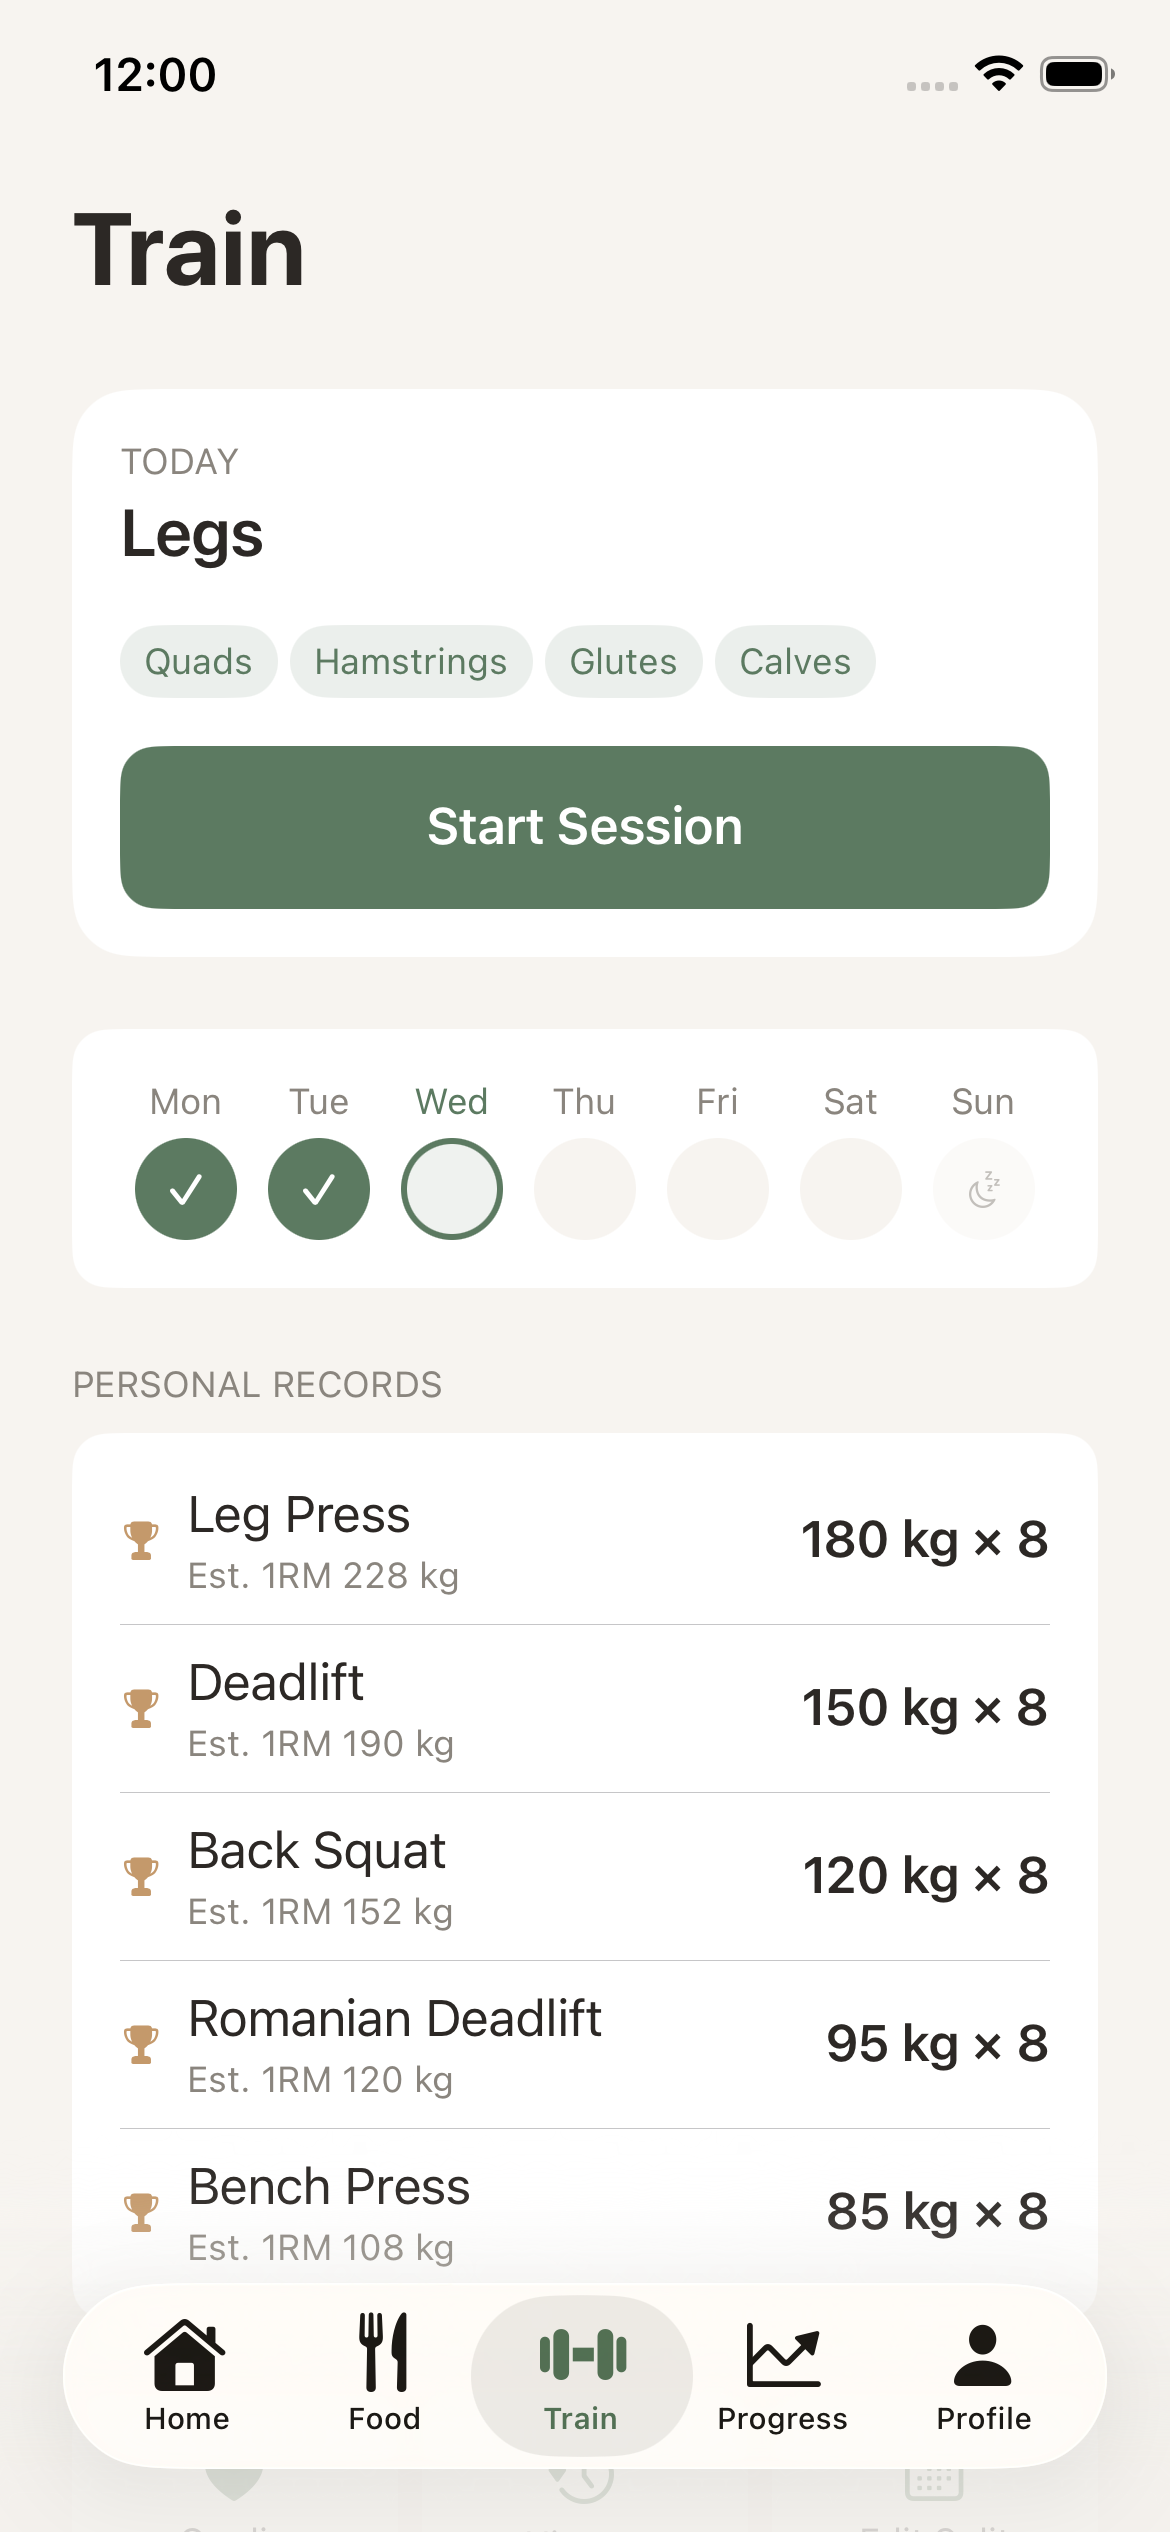
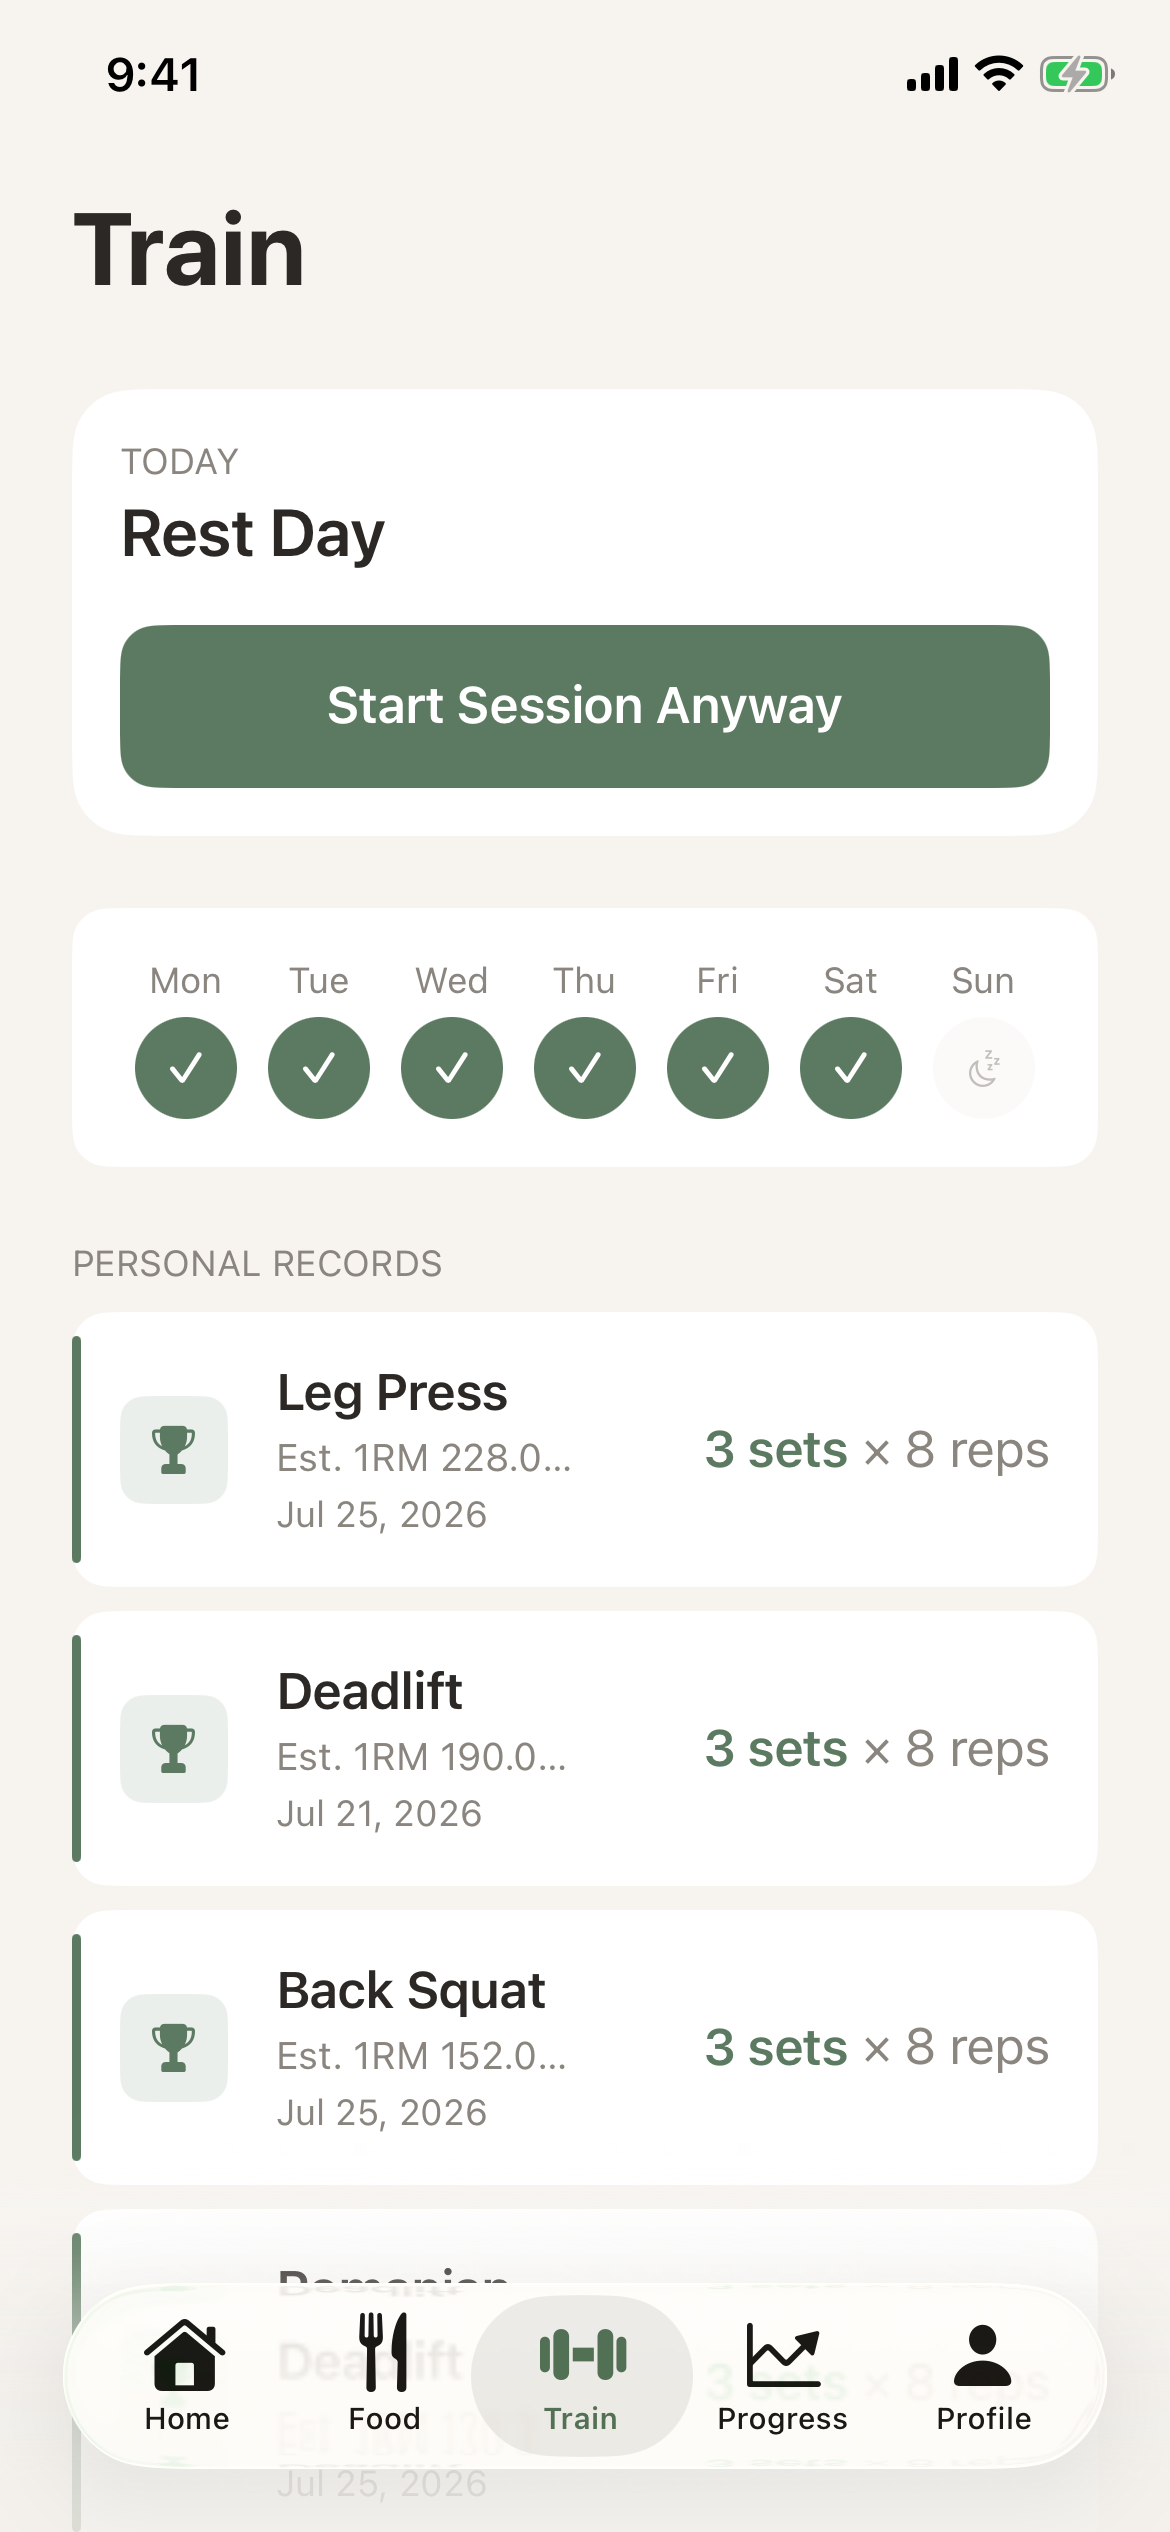
docs: update README with improvements and refresh App Store screenshots
- README: Improvements section listing all 10 post-launch improvements,
  Tech Stack section with the full 17-model SwiftData schema, and
  refreshed Workout/Progress feature lists (no longer "in development")
- DemoSeeder: seed three supplements with three weeks of logs so the
  Home checklist and consistency streak show real data in screenshots
- Fresh 6.9" (iPhone 17 Pro Max) and 6.1" (iPhone 16e) screenshot sets:
  Home, Food diary, Train PRs, Progress Strength analytics, and a dark
  mode Home scrolled to the supplement checklist and streaks

diff --git a/Vora/Utilities/DemoSeeder.swift b/Vora/Utilities/DemoSeeder.swift
@@ -55,8 +55,39 @@ enum DemoSeeder {
         seedFoodAndWater(into: context, today: today, calendar: cal)
         seedWorkouts(into: context, today: today, calendar: cal)
         seedFoodLibrary(into: context)
+        seedSupplements(into: context, today: today, calendar: cal)
 
         try? context.save()
+    }
+
+    /// Three supplements with three weeks of full logs; today the evening
+    /// one is still untaken so the Home checklist reads 2 of 3.
+    private static func seedSupplements(into context: ModelContext, today: Date, calendar: Calendar) {
+        let createdAt = calendar.date(byAdding: .day, value: -21, to: today)!
+        let supplements = [
+            Supplement(name: "Creatine", dose: "5g", timing: .morning,
+                       reminderEnabled: true, reminderMinutes: 480, orderIndex: 0, createdAt: createdAt),
+            Supplement(name: "Vitamin D", dose: "2000IU", timing: .morning,
+                       orderIndex: 1, createdAt: createdAt),
+            Supplement(name: "Magnesium", dose: "400mg", timing: .evening,
+                       orderIndex: 2, createdAt: createdAt),
+        ]
+        supplements.forEach { context.insert($0) }
+
+        for dayOffset in 0...21 {
+            let day = calendar.date(byAdding: .day, value: -dayOffset, to: today)!
+            for supplement in supplements {
+                // Evening supplement not yet taken today.
+                if dayOffset == 0 && supplement.timing == .evening { continue }
+                context.insert(SupplementLog(
+                    supplementID: supplement.id,
+                    supplementName: supplement.name,
+                    dose: supplement.dose,
+                    date: day,
+                    takenAt: day.addingTimeInterval(supplement.timing == .evening ? 21 * 3600 : 8 * 3600)
+                ))
+            }
+        }
     }
 
     /// Custom foods, a saved meal, and a recipe so the food-search tabs

diff --git a/README.md b/README.md
@@ -24,15 +24,20 @@ Vora is a premium iOS fitness tracking app that brings nutrition, training, and 
 - Nutrient breakdown (fibre, sugar, sodium) and one-tap copy of the previous day
 - Day-by-day navigation with swipe or arrows
 
-### Workout *(in development)*
+### Workout
 - Session logging built around your training split (Upper/Lower, Push Pull Legs, Full Body, Custom)
 - Exercise and set tracking: weight, reps, RPE, completion
 - Session volume and duration tracking
+- Per-day exercise templates with previous-session weight auto-fill
+- Personal records with per-exercise history and progression charts
+- Cardio logging across 10 machine types with MET-based calorie estimates
 
-### Progress *(in development)*
-- Weight logging with trend visualization
-- Body fat percentage tracking
-- Progress insights across nutrition and training
+### Progress
+- Weight logging with trend visualization and goal projection
+- Body fat percentage and body measurement tracking
+- Strength and nutrition analytics with Swift Charts
+- Workout, food, and supplement streaks
+- Daily insight engine across nutrition, training, and supplements
 
 ### Profile
 - Guided onboarding: units, biological sex, height, weight, goal, activity level, training split
@@ -50,6 +55,29 @@ Vora is a premium iOS fitness tracking app that brings nutrition, training, and 
 | 3 | Workout Module | ✅ Complete |
 | 4 | Progress & Analytics | ✅ Complete |
 | 5 | Polish, Testing & Launch | ✅ Complete |
+
+## Improvements
+
+Ten post-launch improvements shipped since the Phase 0–5 build:
+
+1. **Workout history** — tappable sessions with full detail view (exercises, sets, weights, reps per session)
+2. **Personal records** — premium cards showing sets × rep range, exercise history drill-down with Swift Charts progression chart
+3. **Exercise templates** — built-in exercises per split day with drag reorder, swipe delete, and previous session weight auto-fill
+4. **Cardio logging** — 10 machine types (Treadmill, Stair Climber, Elliptical, Stationary Bike, Rowing Machine, Running, Cycling, Walking, Swim, Other) with machine-specific inputs and precise MET calorie calculation
+5. **Food tabs** — My Foods, Recipes, and Meals tabs with real SwiftData content, recipe builder, meal templates with one-tap relog
+6. **Progress analytics** — Weight | Strength | Nutrition segments with Swift Charts, exercise picker, range selector, calorie and protein trends
+7. **Smart reminders** — configurable meal, water, and workout reminders with smart skip logic (only fires if condition not met)
+8. **Body measurements** — guided logging with how-to instructions per measurement, history, waist trend chart, body fat % tracking
+9. **Home shortcuts** — quick-log food button (time-aware meal slot), weight shortcut, food logging streak alongside workout streak, barcode scanner offline handling with retry and fallback
+10. **Supplement tracker** — daily checklist with circular checkboxes, quick-add common supplements, timing groups, per-supplement reminders, consistency streak on Progress
+
+## Tech Stack
+
+- **SwiftUI** — fully native UI with a custom design system (typography, adaptive colors, spacing tokens)
+- **SwiftData** — offline-first persistence across 17 models: `UserProfile`, `FoodEntry`, `CustomFood`, `WorkoutSession`, `ExerciseLog`, `SetEntry`, `WeightEntry`, `BodyMeasurement`, `WaterEntry`, `CardioEntry`, `SplitDay`, `SavedMeal`, `SavedMealItem`, `Recipe`, `RecipeIngredient`, `Supplement`, `SupplementLog`
+- **Swift Charts** — weight, strength progression, and nutrition trend charts
+- **HealthKit** — optional weight, active energy, steps, and workout sync
+- **UserNotifications** — one-shot smart reminders recomputed on every app activation
 
 ## Screenshots
 
